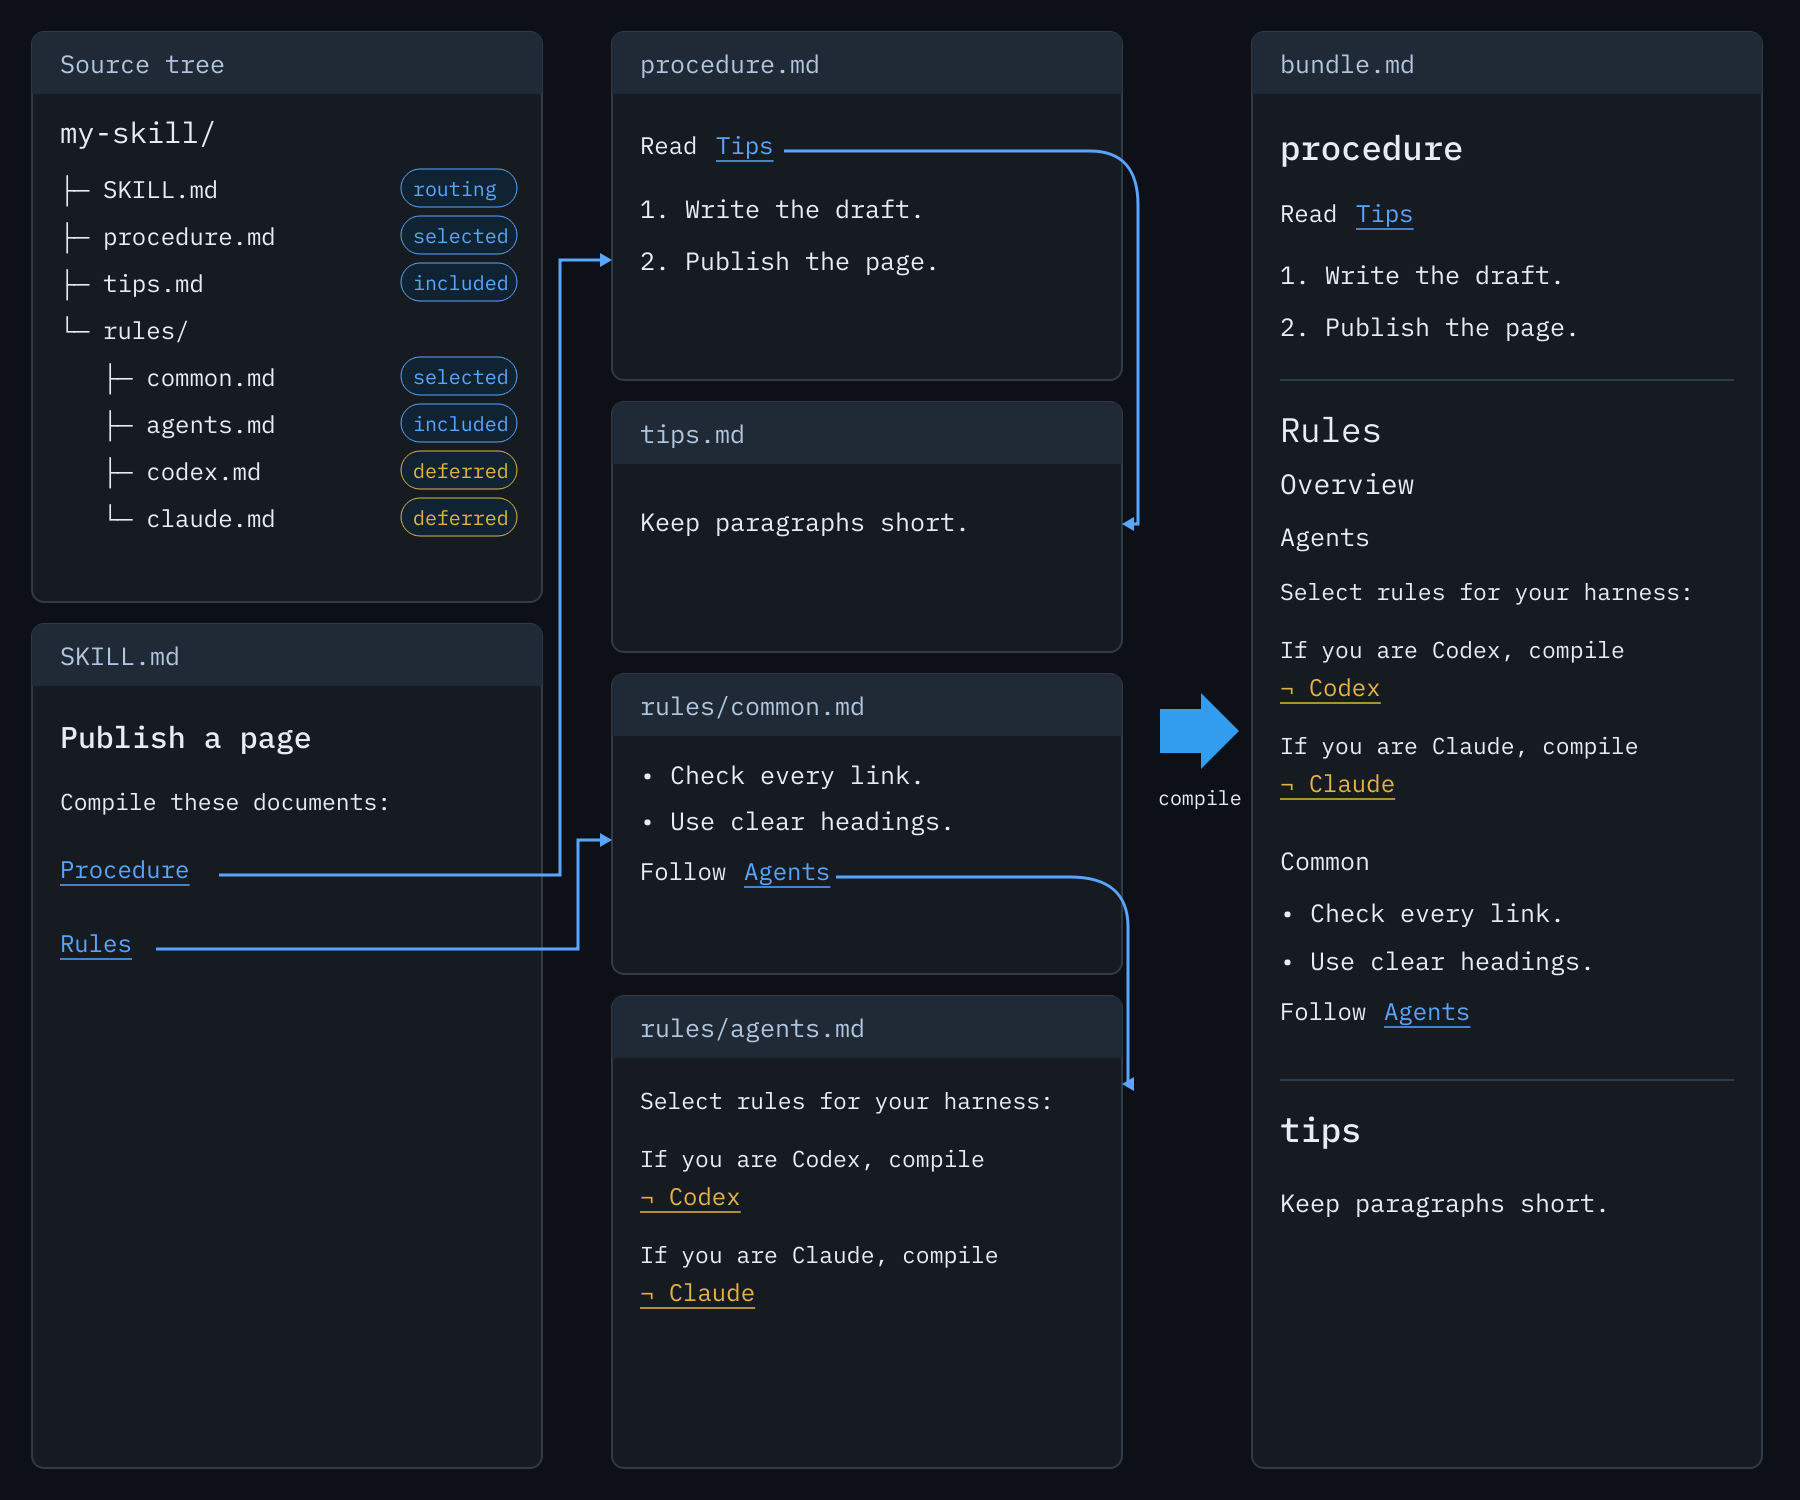
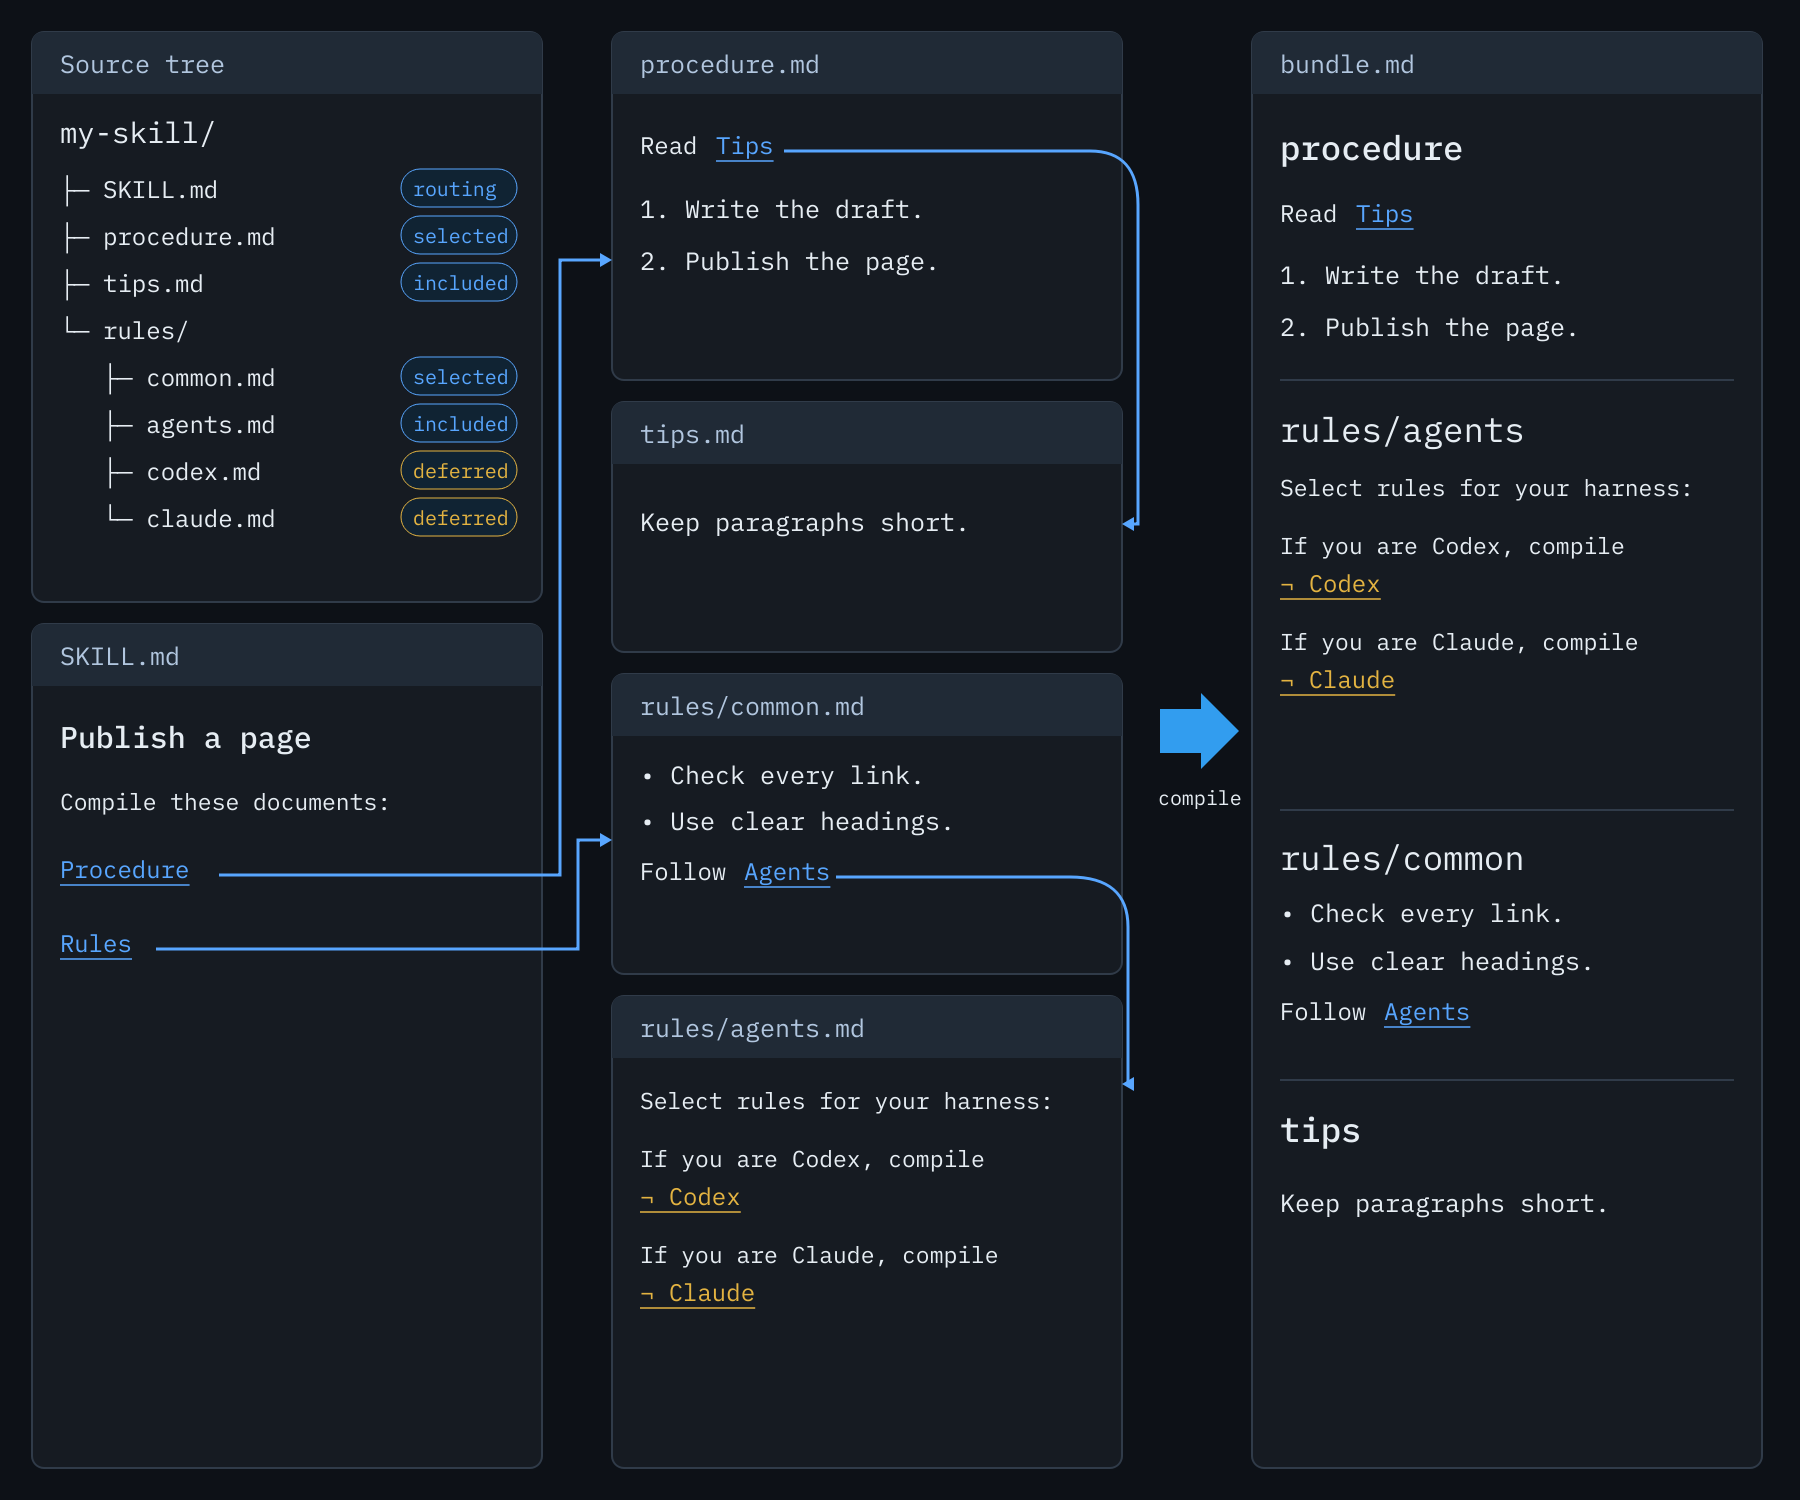
docs: compile diagram examples without grouping

diff --git a/README.md b/README.md
@@ -33,11 +33,10 @@ Run these diagram examples from `example/`, using [my-skill](example/my-skill/SK
 
 ```bash
 prosiform --root my-skill \
-  --group rules:1 \
   --output bundle.md procedure.md rules/common.md
 ```
 
-![SKILL.md selects procedure.md and rules/common.md. Procedure includes tips.md; Rules includes rules/agents.md. Agents and Common appear under Rules / Overview; Agents directs each harness to its deferred Codex or Claude rules. SKILL.md and the harness-specific rules are excluded.](docs/images/compilation.png)
+![SKILL.md selects procedure.md and rules/common.md. Procedure includes tips.md; Rules includes rules/agents.md. Each document has its own bundle section; Agents directs each harness to its deferred Codex or Claude rules. SKILL.md and the harness-specific rules are excluded.](docs/images/compilation.png)
 
 #### Compile agent-specific rules
 
